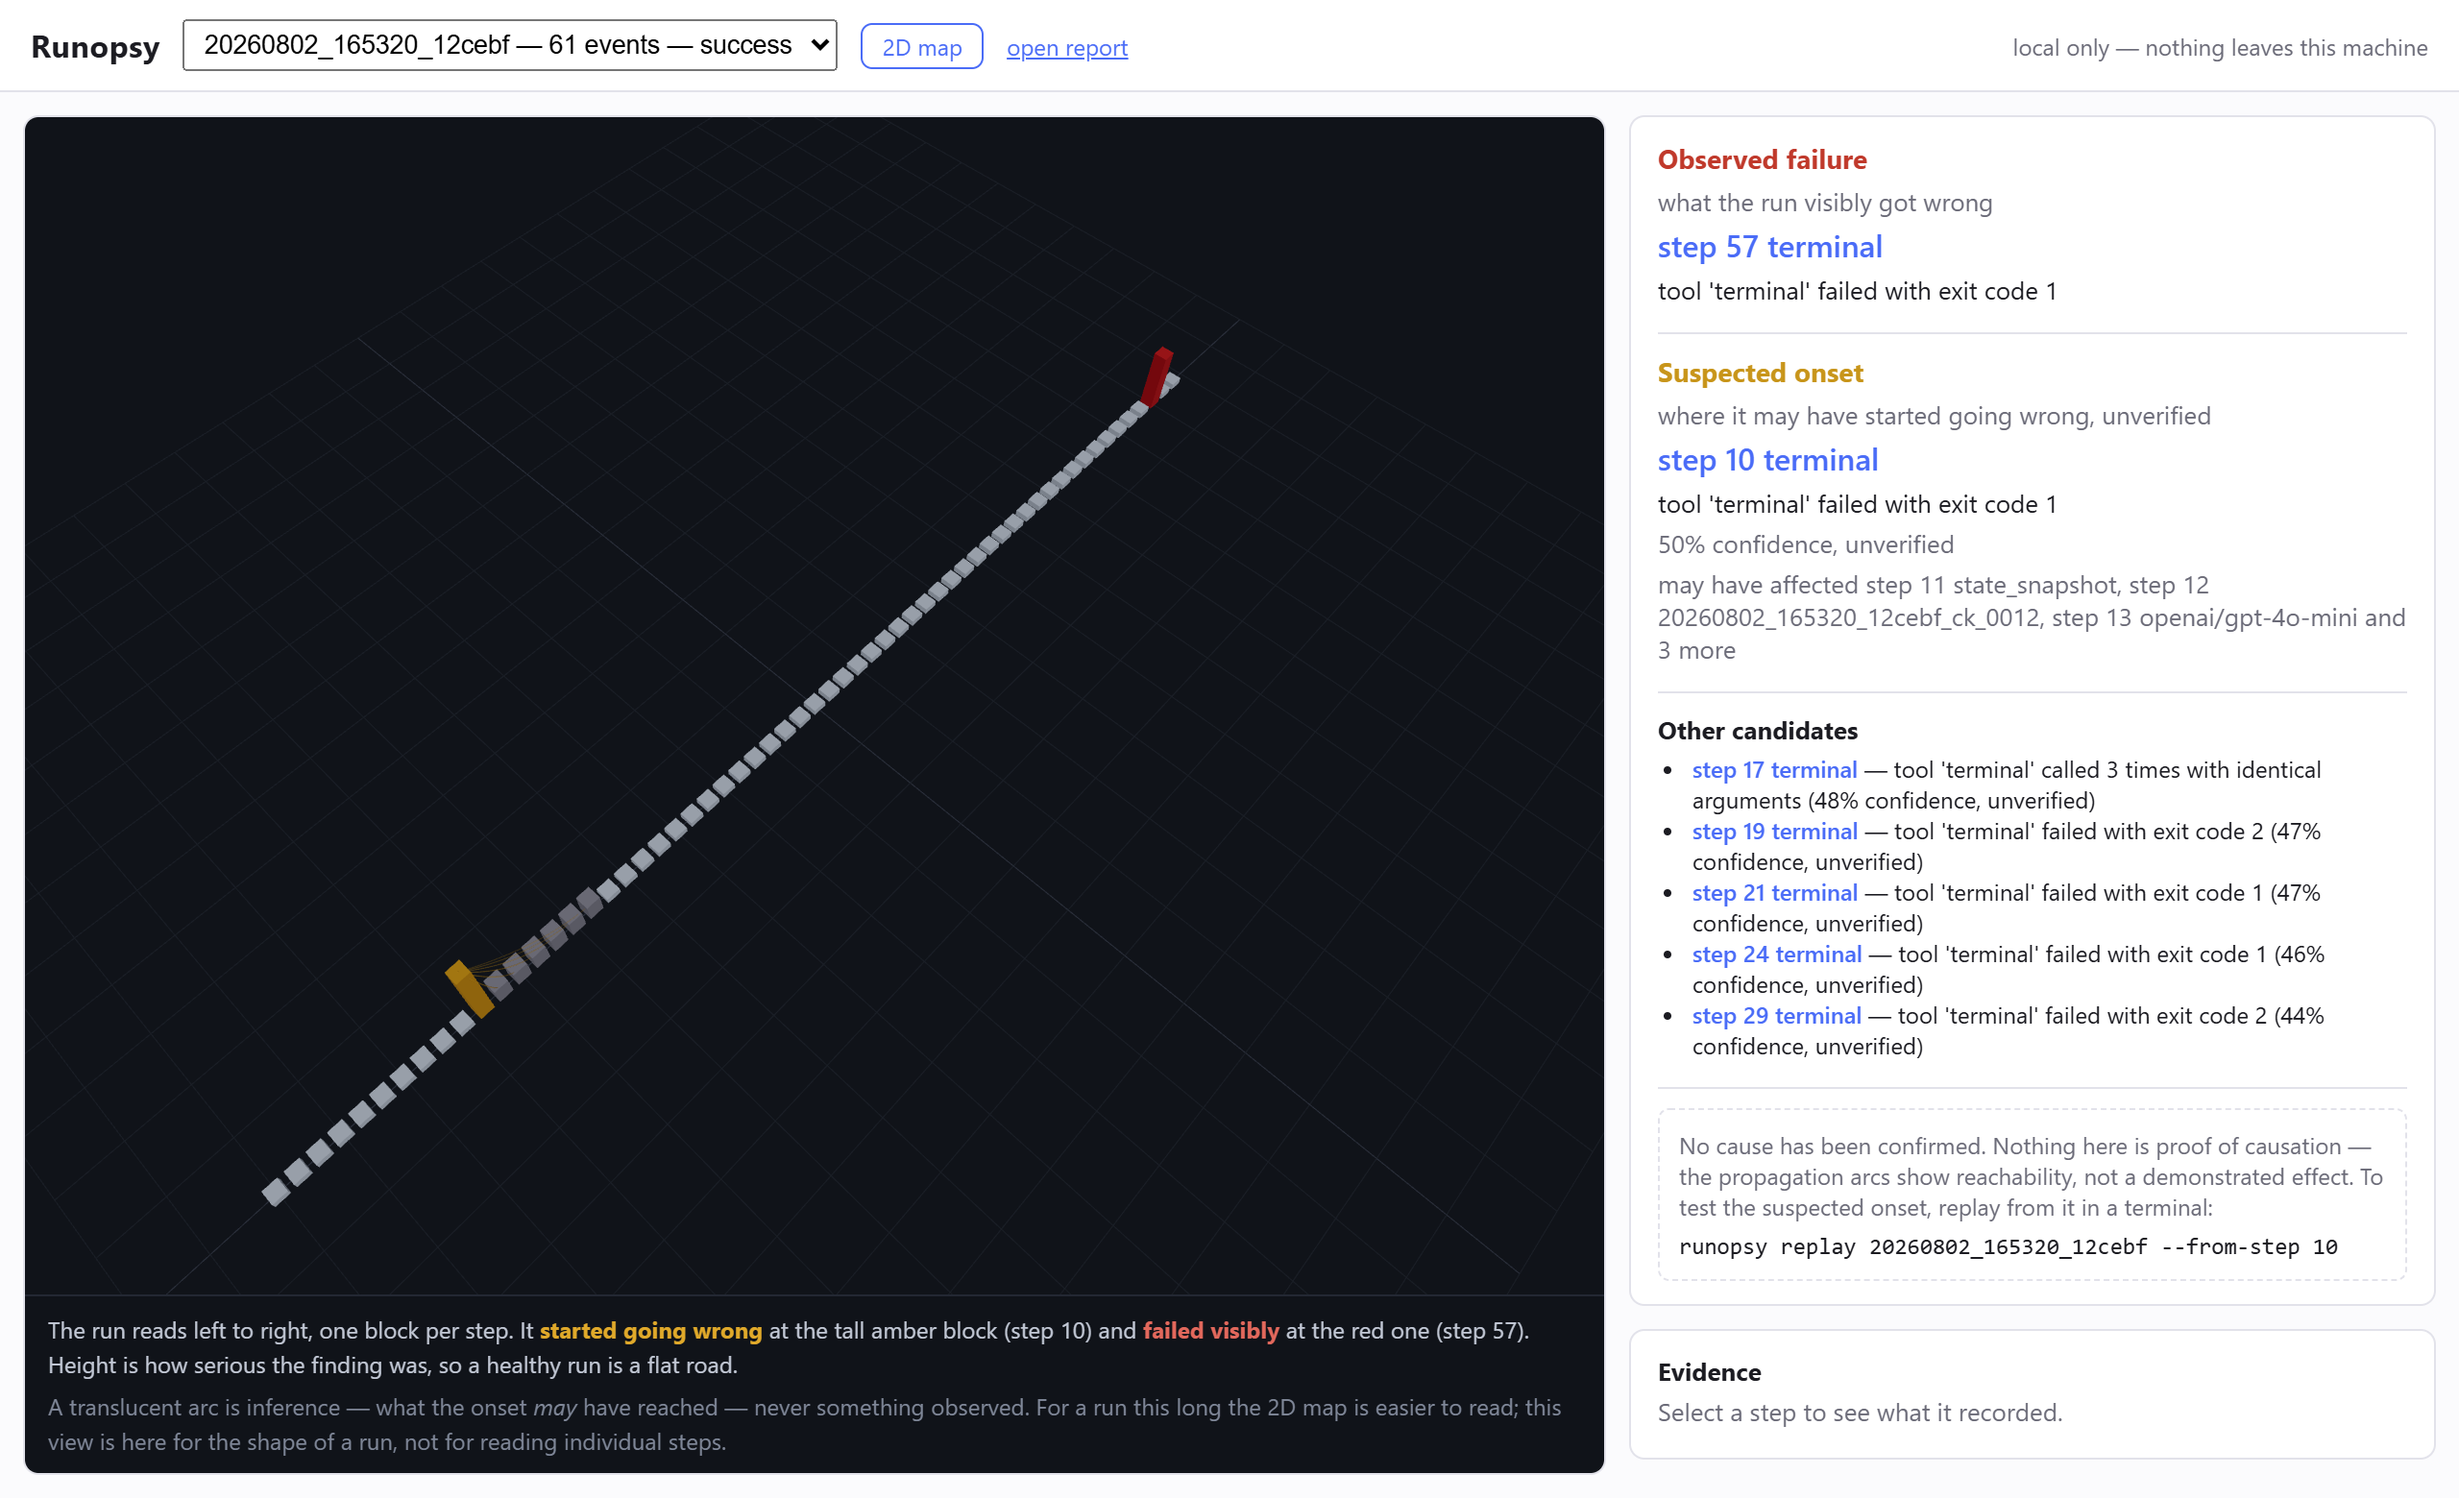
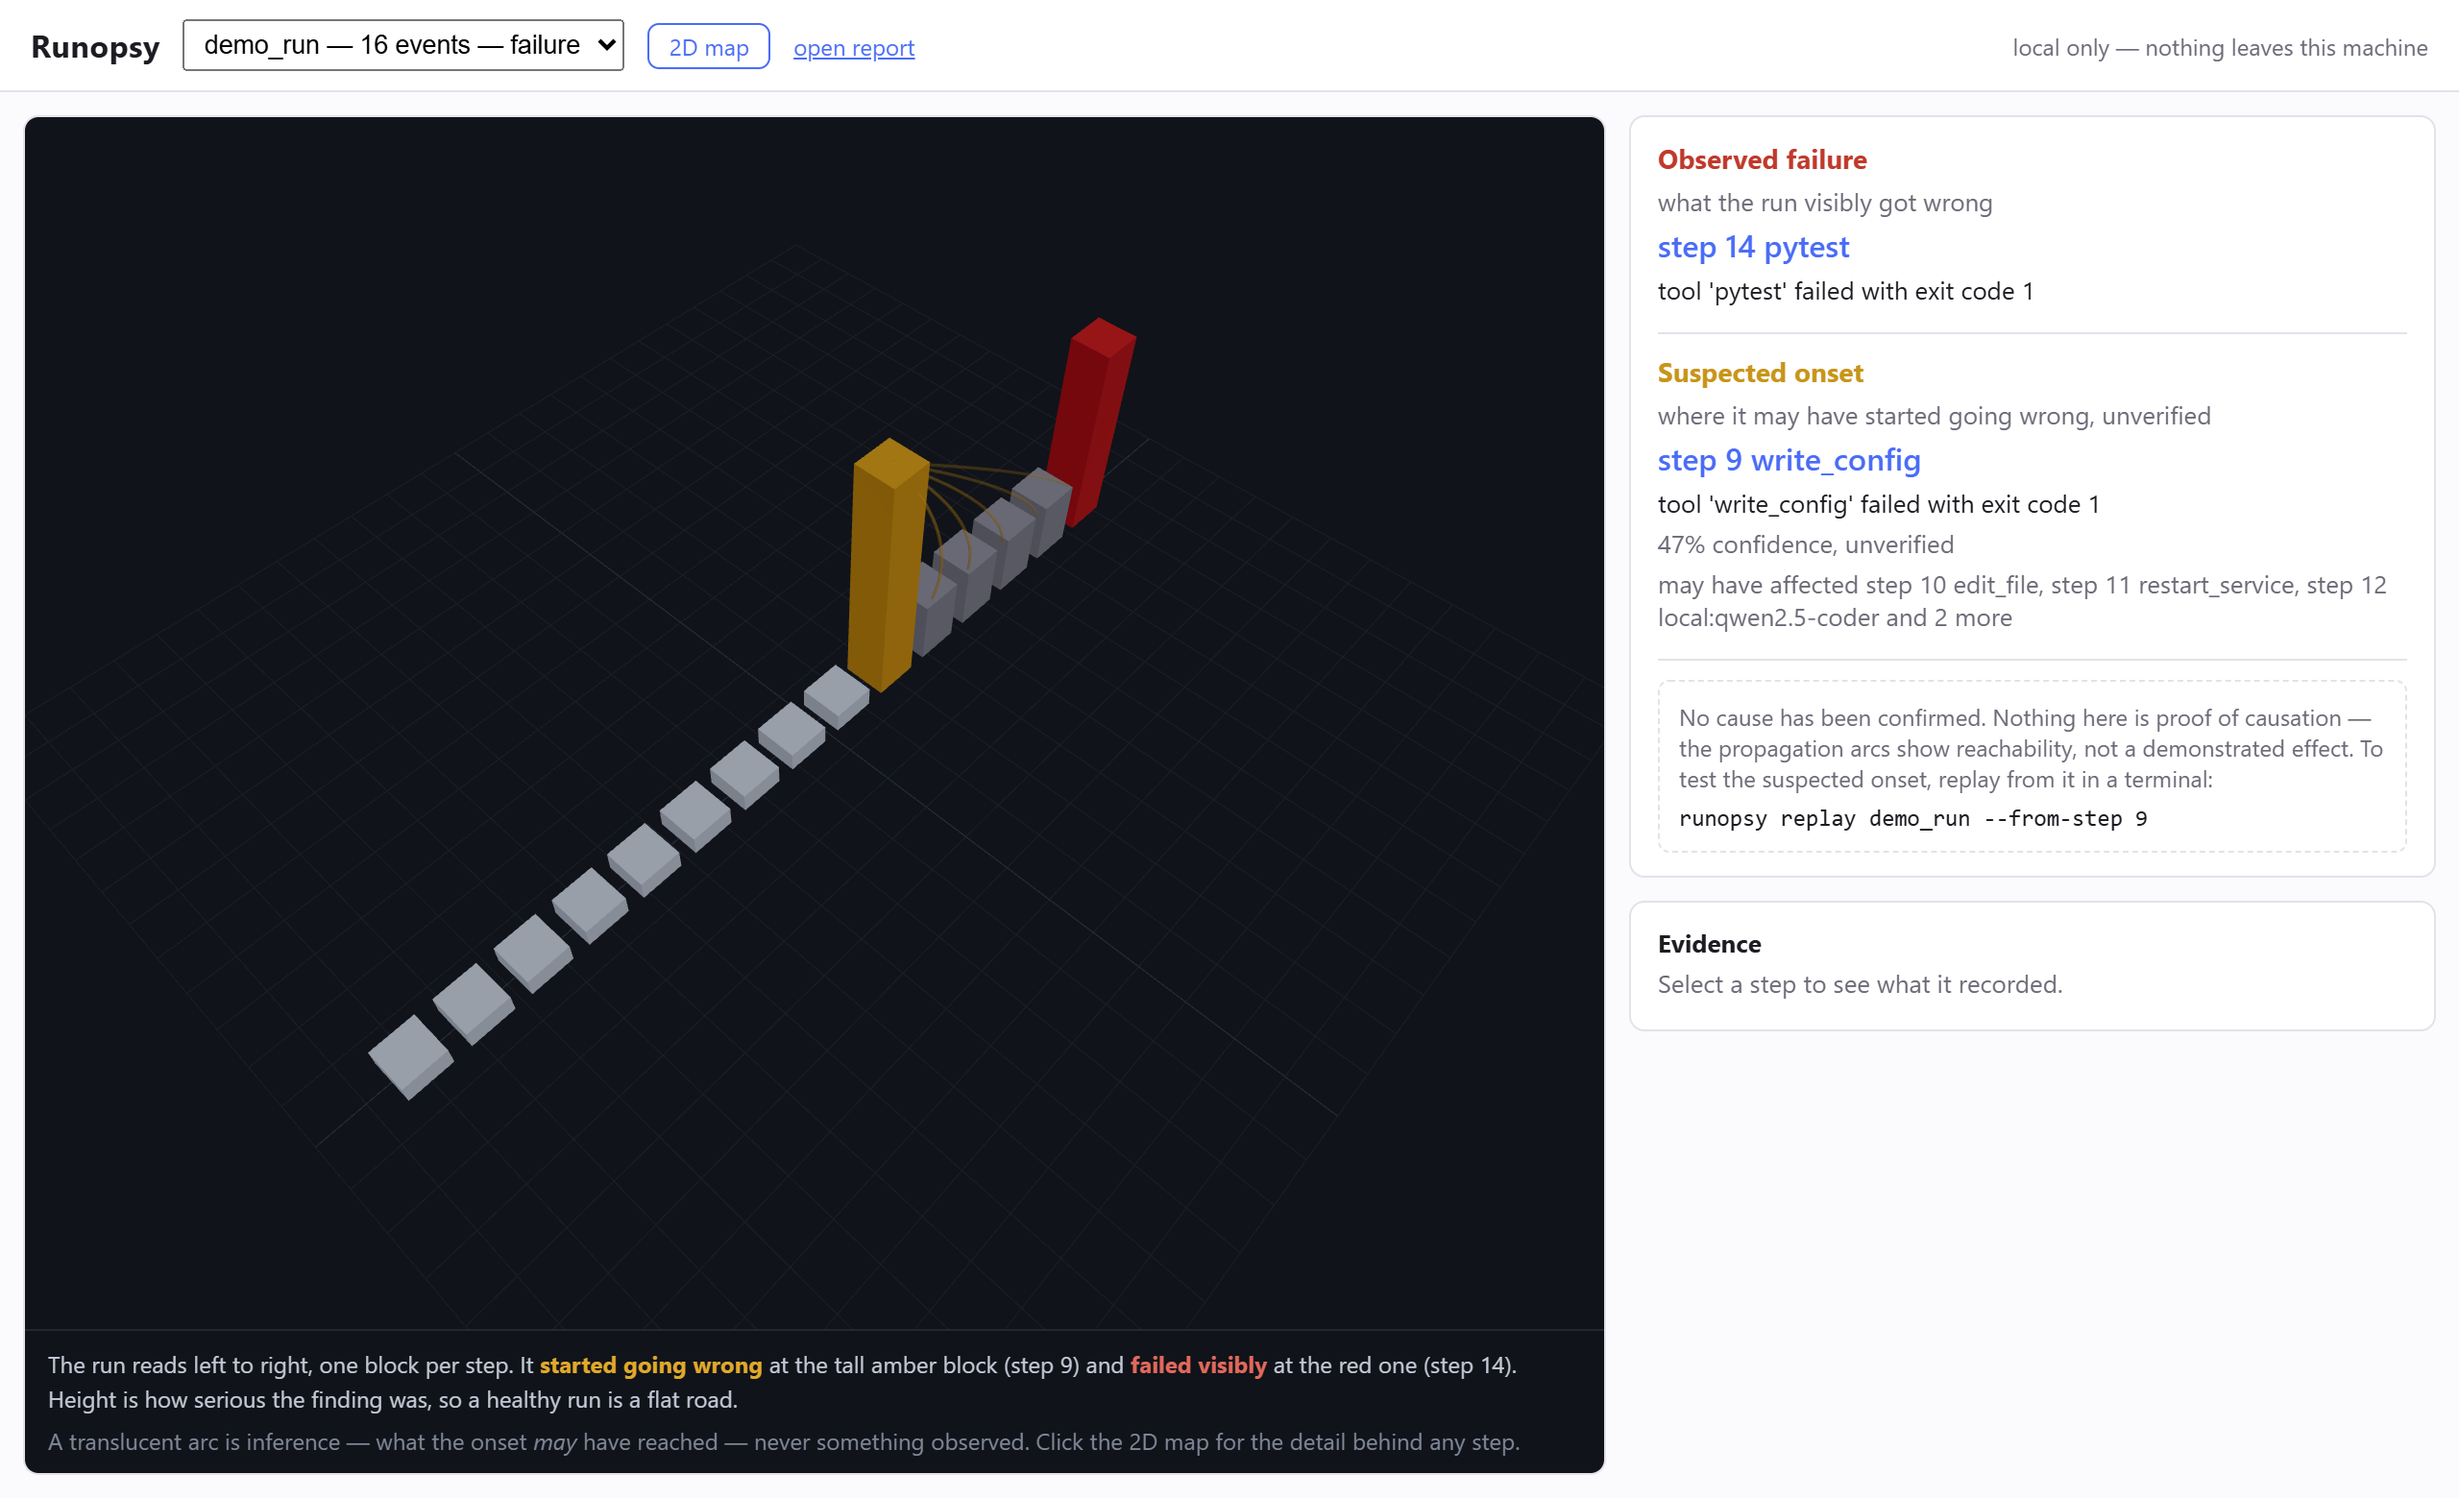
Screenshot a run somebody can actually read
The 3D image in the README was a thin diagonal line of tiny grey blocks
receding to a vanishing point. At the width GitHub renders it, that is an axis,
not a diagnosis — which is what a reader reported, and they were right. I had
judged it at full resolution, where the same picture is legible, and that was
the wrong test: nobody reads it at full resolution.

The cause was the choice of run, not the view. I had pointed the camera at a
61-step session because a real recording felt more honest than the demo. Sixty
one blocks in one line is a corridor at any framing, the amber onset is a speck
a third of the way along, and the 2D map of the same run is fifteen rows of
near-identical grey boxes with the one that matters lost in the middle.

Both images now come from the sixteen-step demo run — the one the README's own
story is about, where it broke at step 9 and surfaced at step 14. The 3D view
now shows what its caption claims: a flat road, a tall amber pillar where it
started going wrong, golden arcs fanning to what that step may have reached, and
a red pillar at the visible failure. The 2D map fits on four rows with both
marked boxes findable at a glance. Still real output from a real recorded run,
rendered by the same script.

The 3D caption also said "for a run this long the 2D map is easier to read"
unconditionally, so it appeared under a picture where the blocks are perfectly
readable — the view apologising for a problem it did not have. It now says that
[…]

diff --git a/packages/runopsy-ui/src/FailureMap3D.tsx b/packages/runopsy-ui/src/FailureMap3D.tsx
@@ -20,6 +20,9 @@ import type { Candidate, GraphResponse, TraceNode } from "./api";
 import { useSelection } from "./store";
 
 const STEP_SPACING = 1.4;
+const CROWDED_RUN = 30;
+// Above this many steps the blocks are too small to read individually, and saying so
+// under a picture where they plainly are readable is worse than saying nothing.
 
 type Role = "onset" | "failure" | "affected" | "candidate" | "plain";
 
@@ -232,8 +235,11 @@ export default function FailureMap3D({
         </p>
         <p className="gloss">
           A translucent arc is inference — what the onset <i>may</i> have reached — never
-          something observed. For a run this long the 2D map is easier to read; this view
-          is here for the shape of a run, not for reading individual steps.
+          something observed.
+          {ordered.length > CROWDED_RUN
+            ? " At this length the blocks are too small to read one by one, so the 2D map" +
+              " is the better view; this one is here for the shape of the run."
+            : " Click the 2D map for the detail behind any step."}
         </p>
       </div>
     </div>

diff --git a/README.md b/README.md
@@ -132,7 +132,7 @@ lists propagation separately under *may reach* with its confidence.
 And an optional 3D view of the same run, where depth is time and height is severity:
 
 <p align="center">
-  <img src="docs/images/ui-3d.png" alt="The 3D view: a 56-step agent run seen from above, the yellow suspected onset near the start and the red observed failure at the end" width="880">
+  <img src="docs/images/ui-3d.png" alt="The 3D view: the same run as a road of blocks, flat where nothing was found, with a tall amber pillar at the suspected onset (step 9) and a red one at the visible failure (step 14)" width="880">
 </p>
 
 That is a real 56-step agent session. Trouble starts at the yellow block near the
